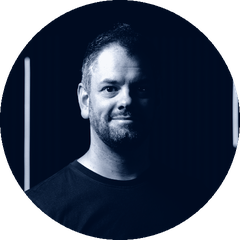
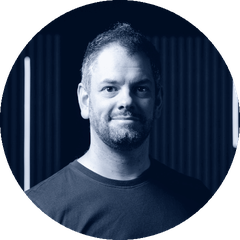
Portrait style: lift dark photos

diff --git a/tools/portrait.py b/tools/portrait.py
@@ -17,10 +17,31 @@ GAMMA = 1.35      # deepens the mid-tones like the example
 CLIP = 0.5        # % of darkest/lightest pixels clipped when stretching contrast
 
 
+FACE_TARGET = 135  # dark photos are lifted until the face area averages at least this
+MAX_LIFT = 0.5     # strongest brightening allowed (gamma)
+
+
+def face_lift(a):
+    """Gamma (<=1) that brightens a dark photo's face area (upper middle) to FACE_TARGET."""
+    h, w = a.shape
+    face = a[int(h * 0.25):int(h * 0.625), int(w * 0.31):int(w * 0.69)] / 255.0
+    if face.mean() * 255 >= FACE_TARGET:
+        return 1.0
+    lo, hi = MAX_LIFT, 1.0
+    for _ in range(30):
+        mid = (lo + hi) / 2
+        if (face ** mid).mean() * 255 < FACE_TARGET:
+            hi = mid
+        else:
+            lo = mid
+    return hi
+
+
 def navy(im):
     g = ImageOps.autocontrast(im.convert("L"), cutoff=CLIP)
+    lift = face_lift(np.asarray(g).astype(float))
     x = np.arange(256) / 255.0
-    tone = np.clip((x ** GAMMA) * 255.0, 0, 255)
+    tone = np.clip(((x ** lift) ** GAMMA) * 255.0, 0, 255)
     lv = [r[0] for r in RAMP]
     lut = [np.interp(tone, lv, [r[c] for r in RAMP]) for c in (1, 2, 3)]
     a = np.asarray(g)
